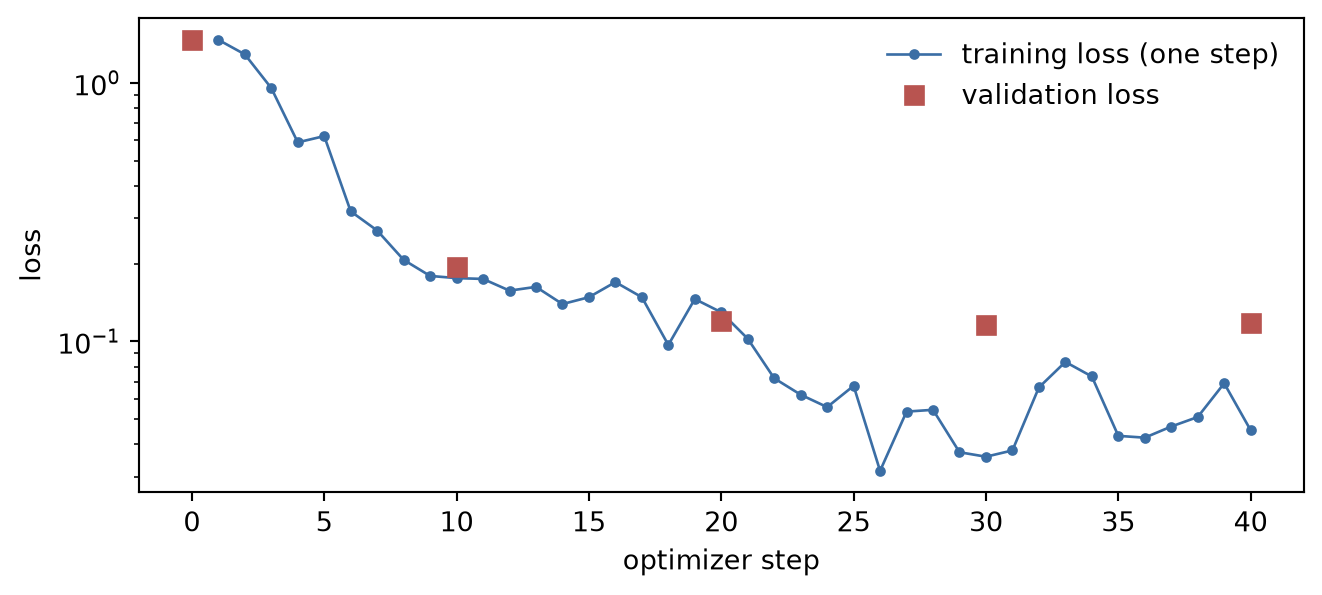
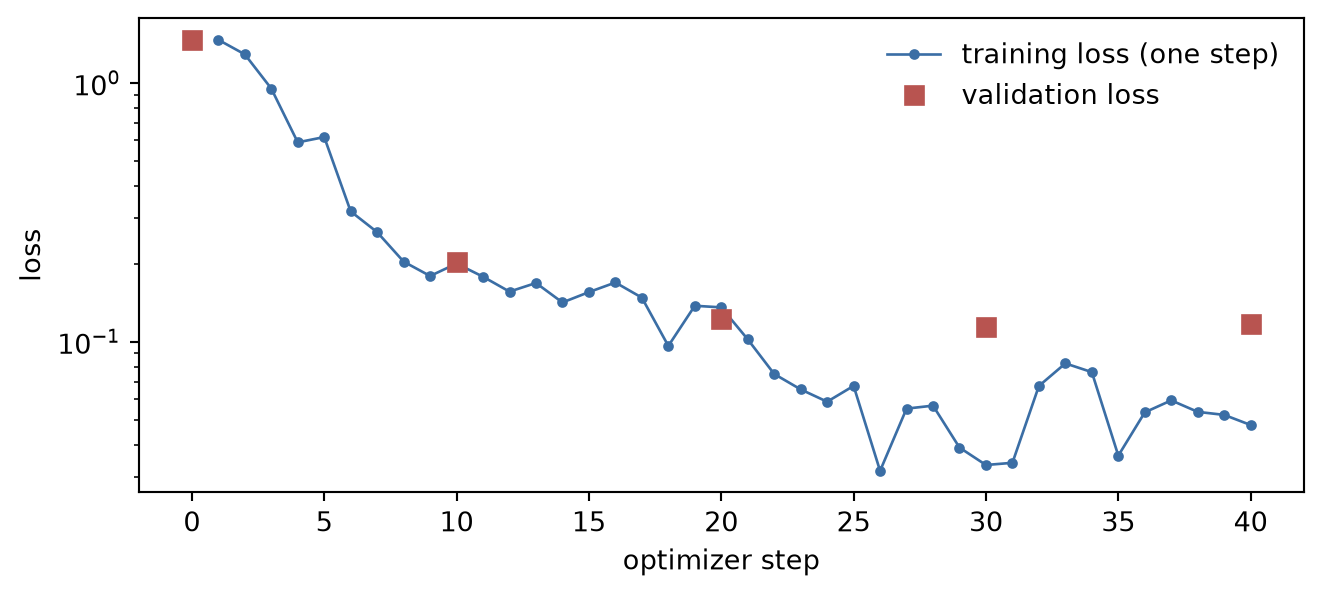
Compute chapter 2.5's demo numbers from the artifact
Retraining the sft_demo artifact (GPU training is not bit-reproducible)
moved the numbers quoted in the prose: 19 of 24 turns correct after
training (was 20), validation loss 0.20 at step 10 (was 0.19). The prose
now takes those values from the artifact, the figure alt text is
qualitative, and an assert guards the claim that no answer fails to run.

diff --git a/PLAN.md b/PLAN.md
@@ -528,7 +528,7 @@ Mark each item `[x]` when it's done and verified. Add a short note (run id, head
 - [x] 2.2 Anatomy of Qwen3-4B. Every block recomputed by hand from the model's weights and checked against hooked activations of layer 0 (relative differences 0.3-0.5%, bf16 rounding); all 36 layers by hand give the same top-5 tokens as the model; the causal-mask check leaves the first 925 of 1,125 positions unchanged (0.0 difference). 4,022,468,096 parameters (embedding 9.7%, feed-forward 66.9%, attention 23.5%); KV cache 147,456 bytes/token (0.53 GB at max_length 3,584); LoRA `all-linear` selects 7 projections per layer (252 modules), not the output head.
 - [x] 2.3 From base model to instruct model. Summary of pretraining and post-training from the Qwen3 report, with a redrawn Figure 1; base vs instruct on four prompts (base answers some, continues others; chat markers untrained in base); chat template vs the original thinking template; one sequence per conversation uses 3.50× fewer tokens than per-turn (3,525,034 vs 12,333,479).
 - [x] 2.4 Probing the untuned model. 20 val conversations (68 turns, gold history, greedy): zero-shot 24% exec. acc. (44 of 52 errors are format failures), 2-shot 68% (7 format, 15 valid-but-wrong); 13 of 51 invalid outputs contain the gold answer under a lenient reading (ad hoc scan, not in the chapter). Most surprisal is in DSL tokens (opening operator, `),`, `(#`, end of turn), not copied numbers. **Val gold-program NLL = 2.2062 nats/token** (306 convs, 16,417 tokens; artifact `val_gold_nll`), the predicted step-0 loss for §3.3. Attention-map probe skipped (optional).
-- [x] 2.5 How fine-tuning works. By-hand loss on a 4B val conversation = `model(labels=...).loss` (1.889931 both) and = 2.4's `gold_logprobs`; AdamW and cosine-with-warmup written out (schedule checked against the library at every step); accumulation normalization quantified; memory budget (computed weights match measured); `step_cost_*` measurements (4B LoRA r=16 needs gradient checkpointing: 21 GB typical / 34 GB longest batch, ~41 s/step, ~4 h for 342 steps); `sft_demo` (0.5B full fine-tuning via `SFTTrainer`, 40 steps): Trainer's step-0 loss = hand-computed (1.4589), labels = ours, logged lr = our schedule, 3 -> 20 of 24 turns correct. No hand-written loop (see decision log).
+- [x] 2.5 How fine-tuning works. By-hand loss on a 4B val conversation = `model(labels=...).loss` (1.889931 both) and = 2.4's `gold_logprobs`; AdamW and cosine-with-warmup written out (schedule checked against the library at every step); accumulation normalization quantified; memory budget (computed weights match measured); `step_cost_*` measurements (4B LoRA r=16 needs gradient checkpointing: 21 GB typical / 34 GB longest batch, ~41 s/step, ~4 h for 342 steps); `sft_demo` (0.5B full fine-tuning via `SFTTrainer`, 40 steps): Trainer's step-0 loss = hand-computed (1.4589), labels = ours, logged lr = our schedule, 3 -> 19 of 24 turns correct (20 in the first run; GPU training is not bit-reproducible, so the chapter computes its numbers from the artifact). No hand-written loop (see decision log).
 - [ ] 2.6 LoRA in detail; step-0 equality check passes
 - [ ] 3.1 Formatting + splits; label-mask test passes
 - [ ] 3.2 Untuned baseline, 3 example sets (DSL)
